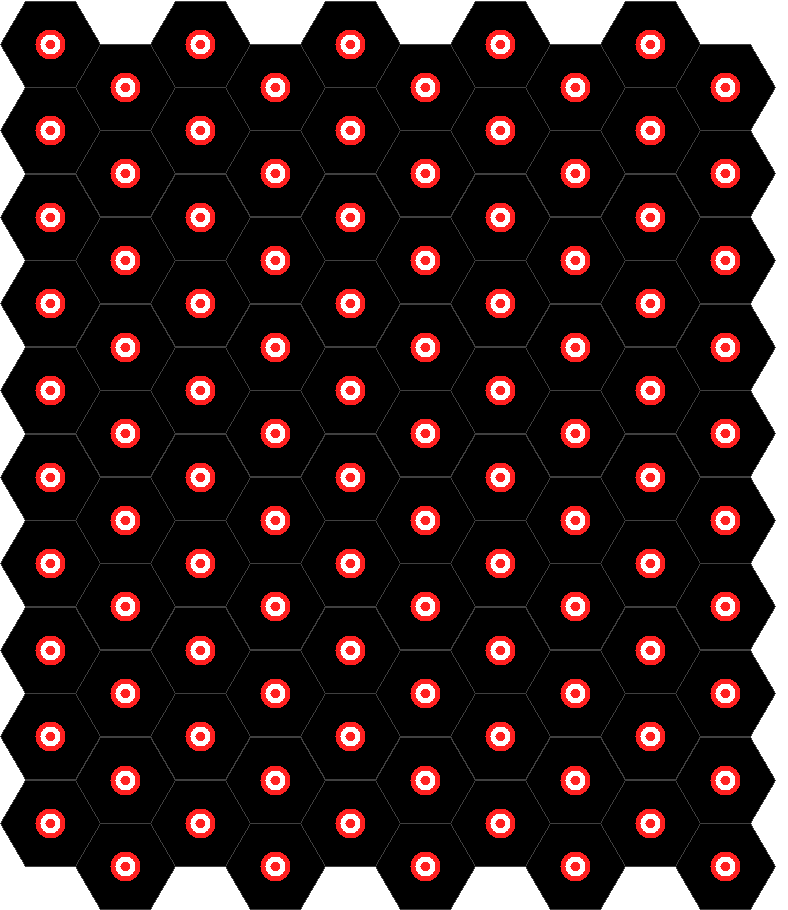
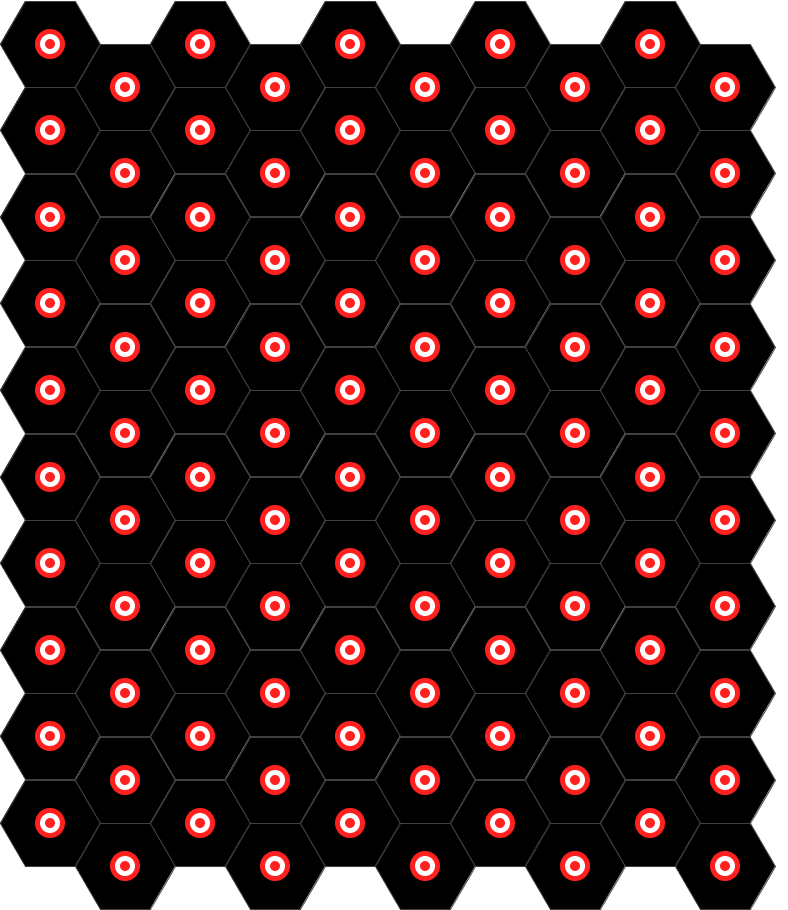
981770-68921874 Fix anti-aliasing issue

diff --git a/eslime/src/io/visual/map/CoordinateRenderer.java b/eslime/src/io/visual/map/CoordinateRenderer.java
@@ -26,19 +26,18 @@ import layers.SystemState;
 import structural.identifiers.Coordinate;
 
 import java.awt.*;
-import java.awt.image.BufferedImage;
 
 /**
  * Created by dbborens on 4/1/14.
  */
 public class CoordinateRenderer {
 
-    private BufferedImage image;
+    private Graphics2D graphics;
     private PixelTranslator translator;
     private MapState mapState;
 
-    public CoordinateRenderer(BufferedImage image, PixelTranslator translator, MapState mapState) {
-        this.image = image;
+    public CoordinateRenderer(Graphics2D graphics, PixelTranslator translator, MapState mapState) {
+        this.graphics = graphics;
         this.translator = translator;
         this.mapState = mapState;
     }
@@ -50,23 +49,21 @@ public class CoordinateRenderer {
     }
 
     private void renderFill(Coordinate toRender, SystemState systemState) {
-        Graphics g = image.getGraphics();
         Color color = mapState.getColorManager().getColor(toRender, systemState);
         Polygon p = translator.makePolygon(toRender);
 
         // Flood region with background color
-        g.setColor(color);
-        g.fillPolygon(p);
+        graphics.setColor(color);
+        graphics.fillPolygon(p);
     }
 
     private void renderOutline(Coordinate toRender, SystemState systemState) {
-        Graphics g = image.getGraphics();
         Color color = mapState.getColorManager().getBorderColor();
         Polygon p = translator.makePolygon(toRender);
 
         // Flood region with background color
-        g.setColor(color);
-        g.drawPolygon(p);
+        graphics.setColor(color);
+        graphics.drawPolygon(p);
     }
 
     private void renderHighlights(Coordinate toRender, SystemState systemState) {

diff --git a/eslime/src/io/visual/glyph/Glyph.java b/eslime/src/io/visual/glyph/Glyph.java
@@ -24,7 +24,7 @@ package io.visual.glyph;
 import io.visual.map.PixelTranslator;
 import structural.identifiers.Coordinate;
 
-import java.awt.image.BufferedImage;
+import java.awt.*;
 
 /**
  * A glyph is an overlay onto a lattice cell. It is used for highlighting in
@@ -39,7 +39,7 @@ public abstract class Glyph {
     // The pixel translator converts coordinates to pixels.
     protected PixelTranslator translator;
 
-    protected BufferedImage image;
+    protected Graphics2D graphics;
 
     public void init(PixelTranslator translator) {
         this.translator = translator;
@@ -47,12 +47,10 @@ public abstract class Glyph {
     }
 
     /**
-     * Set the image to which the glyphs should be written.
-     *
-     * @param image
+     * Set the Graphics object to which the glyphs should be written.
      */
-    public void setImage(BufferedImage image) {
-        this.image = image;
+    public void setGraphics(Graphics2D graphics) {
+        this.graphics = graphics;
     }
 
     /**

diff --git a/eslime/mocks/io/visual/glyph/MockGlyph.java b/eslime/mocks/io/visual/glyph/MockGlyph.java
@@ -23,17 +23,25 @@ package io.visual.glyph;
 
 import structural.identifiers.Coordinate;
 
-import java.awt.image.BufferedImage;
+import java.awt.*;
 
 /**
  * Created by dbborens on 4/2/14.
  */
 public class MockGlyph extends Glyph {
-    private BufferedImage image;
+    private Graphics2D graphics;
     private Coordinate lastOverlaid;
 
     public MockGlyph() {
         lastOverlaid = null;
+    }
+
+    public Graphics2D getGraphics() {
+        return graphics;
+    }
+
+    public void setGraphics(Graphics2D graphics) {
+        this.graphics = graphics;
     }
 
     @Override
@@ -49,14 +57,6 @@ public class MockGlyph extends Glyph {
         this.lastOverlaid = c;
     }
 
-    public BufferedImage getImage() {
-        return image;
-    }
-
-    @Override
-    public void setImage(BufferedImage image) {
-        this.image = image;
-    }
 
     @Override
     public boolean equals(Object obj) {

diff --git a/eslime/src/io/visual/map/MapVisualization.java b/eslime/src/io/visual/map/MapVisualization.java
@@ -50,9 +50,9 @@ public class MapVisualization implements Visualization {
         Graphics2D g = (Graphics2D) img.getGraphics();
         g.setRenderingHint(RenderingHints.KEY_ANTIALIASING, RenderingHints.VALUE_ANTIALIAS_ON);
 
-        members.getHighlightManager().setImage(img);
+        members.getHighlightManager().setGraphics(g);
 
-        CoordinateRenderer renderer = new CoordinateRenderer(img, translator, members);
+        CoordinateRenderer renderer = new CoordinateRenderer(g, translator, members);
         for (Coordinate c : members.getCoordinates()) {
             renderer.render(c, systemState);
         }

diff --git a/eslime/tests/io/visual/glyph/HighlightManagerTest.java b/eslime/tests/io/visual/glyph/HighlightManagerTest.java
@@ -25,6 +25,7 @@ import io.visual.highlight.HighlightManager;
 import layers.MockSystemState;
 import test.EslimeLatticeTestCase;
 
+import java.awt.*;
 import java.awt.image.BufferedImage;
 
 /**
@@ -45,8 +46,9 @@ public class HighlightManagerTest extends EslimeLatticeTestCase {
 
     public void testSetImage() throws Exception {
         BufferedImage image = new BufferedImage(1, 1, BufferedImage.TYPE_INT_ARGB);
-        query.setImage(image);
-        assertEquals(image, glyph.getImage());
+
+        query.setGraphics((Graphics2D) image.getGraphics());
+        assertEquals(image, glyph.getGraphics());
     }
 
 

diff --git a/eslime/src/io/visual/glyph/BullseyeGlyph.java b/eslime/src/io/visual/glyph/BullseyeGlyph.java
@@ -76,10 +76,11 @@ public class BullseyeGlyph extends Glyph {
             int y = center.y() - radius;
 
             // Outermost circle.
-            Graphics g = image.getGraphics();
-            g.setColor(color);
 
-            g.fillOval(x, y, radius * 2, radius * 2);
+            // Not sure why I have to set this again, but oh well. Anything to avoid jaggies!
+//            graphics.setRenderingHint(RenderingHints.KEY_ANTIALIASING, RenderingHints.VALUE_ANTIALIAS_ON);
+            graphics.setColor(color);
+            graphics.fillOval(x, y, radius * 2, radius * 2);
         }
     }
 

diff --git a/eslime/src/io/visual/highlight/HighlightManager.java b/eslime/src/io/visual/highlight/HighlightManager.java
@@ -26,7 +26,7 @@ import io.visual.map.PixelTranslator;
 import layers.SystemState;
 import structural.identifiers.Coordinate;
 
-import java.awt.image.BufferedImage;
+import java.awt.*;
 import java.util.HashMap;
 import java.util.Map;
 
@@ -44,9 +44,9 @@ public class HighlightManager {
         glyphMap.put(channel, glyph);
     }
 
-    public void setImage(BufferedImage image) {
+    public void setGraphics(Graphics2D graphics) {
         for (Glyph glyph : glyphMap.values()) {
-            glyph.setImage(image);
+            glyph.setGraphics(graphics);
         }
     }
 

diff --git a/eslime/src/io/visual/glyph/DotGlyph.java b/eslime/src/io/visual/glyph/DotGlyph.java
@@ -64,9 +64,8 @@ public class DotGlyph extends Glyph {
         int x = center.x() - radius;
         int y = center.y() - radius;
 
-        Graphics g = image.getGraphics();
-        g.setColor(color);
-        g.fillOval(x, y, radius * 2, radius * 2);
+        graphics.setColor(color);
+        graphics.fillOval(x, y, radius * 2, radius * 2);
     }
 
     @Override
